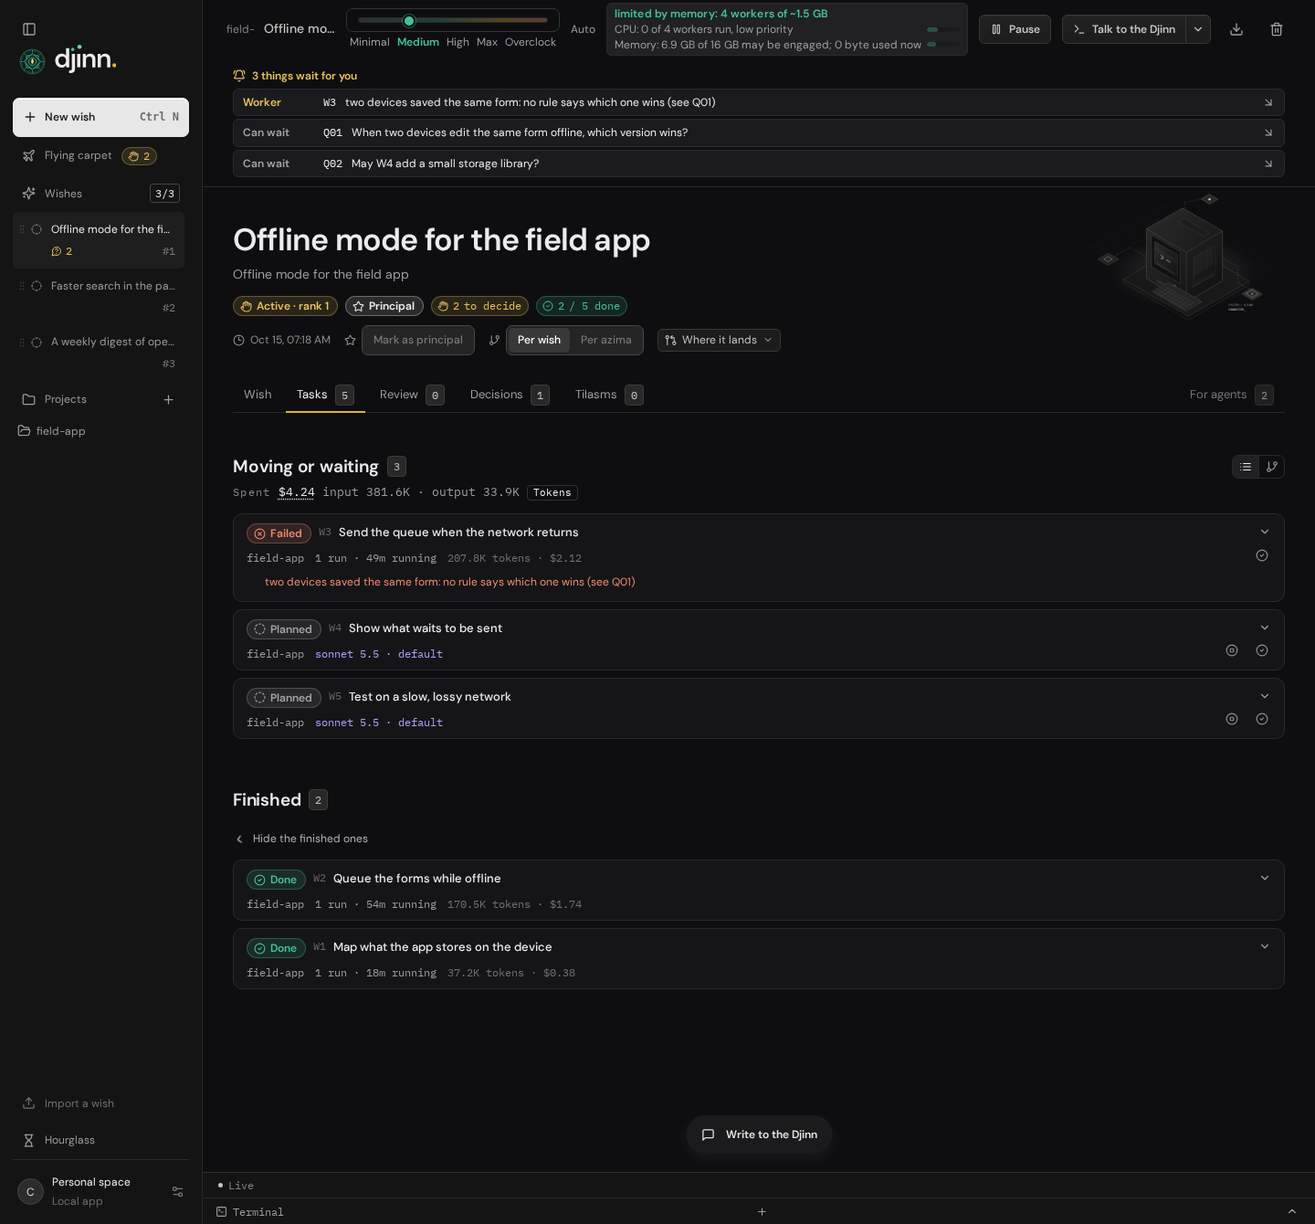
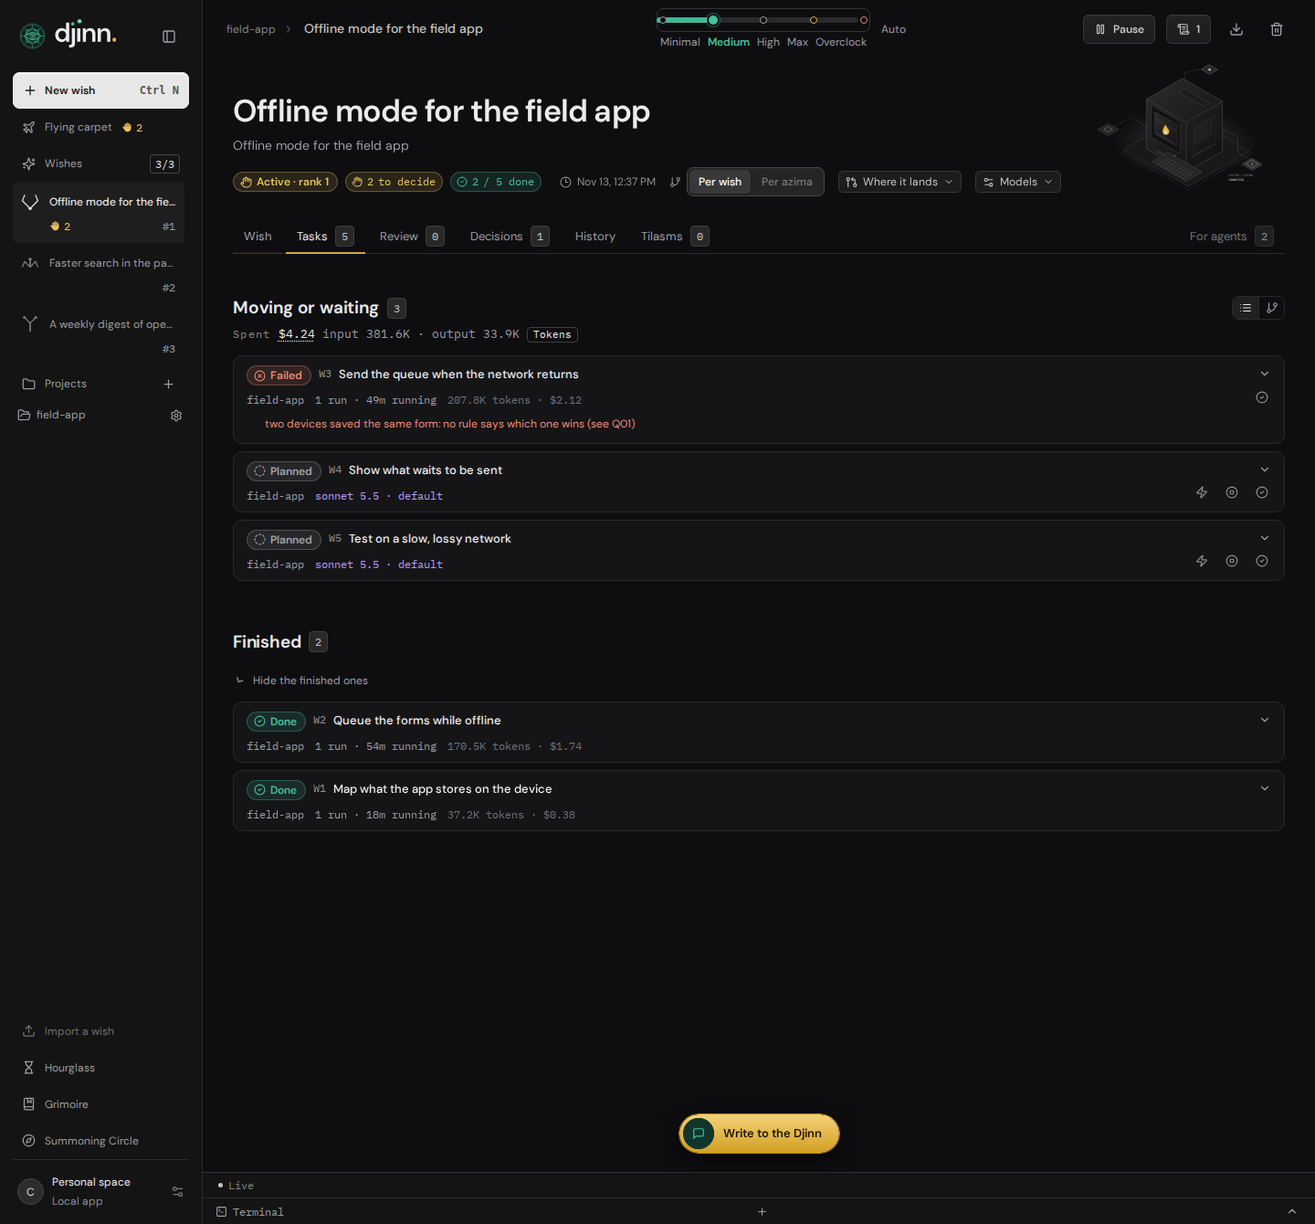
docs: the README for the beta, what Djinn does in v0.4.0, the road to v1 and its screenshots in the current look (W39)
The README announces the beta with no date, describes what v0.4.0 and main do (several Claude
accounts, gates and the memory brake, the Hourglass's Statistics, a draft pull request per azima,
the Djinn's tone by theme), keeps what is not verified yet under What beta means, and gives the road
to v1: the developer's four themes, then twelve proposals marked as such. The screenshots are taken
again with go tool task screenshots, in the window's current look.

diff --git a/README.md b/README.md
@@ -9,8 +9,9 @@
 
 _A wisp of smoke to work your will._
 
-> **Alpha.** Djinn is young and moves fast. It runs real work every day on its own repository, but expect rough
-> edges, and read [Status](#status) before you trust it with yours.
+> **Beta.** Djinn has left alpha: it runs real work every day, its own development first, and what it does is covered
+> by tests. It is not v1 yet: some paths are verified by tests only (see [What beta means](#what-beta-means)), the
+> command line and the API may still change, and the road to v1 is [below](#before-v1), with no date set.
 
 Djinn turns what you wish into work done by coding agents, on your own machine, with your own accounts. It is one
 command, `djinn`: a native window, a local server, and a command line the agents use. You make **wishes**; one
@@ -20,7 +21,7 @@ needs you comes as a **question**, with a recommendation and the exact command w
 
 <picture>
   <source media="(prefers-color-scheme: light)" srcset="docs/screenshots/readme/questions-light.png">
-  <img alt="A wish in Djinn: what waits for you, and a question with the Djinn's recommendation" src="docs/screenshots/readme/questions-dark.png">
+  <img alt="A wish in Djinn: a question with what is at stake, its options and the Djinn's recommendation, beside what runs" src="docs/screenshots/readme/questions-dark.png">
 </picture>
 
 ## What no djinn can grant
@@ -38,7 +39,8 @@ Like the genie of the lamp, Djinn has limits, and they are the project's first r
 - **Three wishes at a time.** One Djinn holds three active wishes at most, and as many set aside as you like.
 
 **Workers commit, and never push.** Each commits its work in its worktree; Djinn merges each one's work as it ends,
-checked, and pushes on a cadence: one CI run per push instead of one per worker.
+checked, and pushes on a cadence: one CI run per push instead of one per worker. It opens pull requests as drafts,
+and never marks them ready nor merges them: that stays yours.
 
 ## Install
 
@@ -55,13 +57,14 @@ irm https://github.com/Empowill/Djinn/releases/latest/download/install.ps1 | iex
 ```
 
 Then run `djinn up` (`djinn up --browser` prints a URL instead of opening a window). The latest release is
-[v0.3.0](https://github.com/Empowill/Djinn/releases/tag/v0.3.0).
+[v0.4.0](https://github.com/Empowill/Djinn/releases/tag/v0.4.0), and its [notes](docs/releases/v0.4.0.md) say what
+each part still needs.
 
 **Agents.** Djinn asks for no API key and stores none: it runs the agents you installed and signed in to, and your
 account pays for them. **Connections & preferences** shows which ones it finds and installs or signs them in from the
-window; the **Summoning Circle** picks the agent and model for the Djinn and for each kind of worker. By hand:
-`npm install -g @anthropic-ai/claude-code`, `npm install -g @openai/codex`, and for Antigravity see
-[`docs/providers.md`](docs/providers.md#antigravity).
+window; the **Summoning Circle** picks the agent and model for the Djinn and for each kind of worker, and ranks your
+sign-ins when you have several Claude accounts. By hand: `npm install -g @anthropic-ai/claude-code`,
+`npm install -g @openai/codex`, and for Antigravity see [`docs/providers.md`](docs/providers.md#antigravity).
 
 **macOS builds are not signed yet.** The `curl` install is not affected; a `Djinn.app` downloaded with a browser
 must be allowed once in *System Settings › Privacy & Security*, or with `xattr -dr com.apple.quarantine Djinn.app`.
@@ -80,73 +83,74 @@ djinn up
 
 ## What works today
 
-What is below is merged on the alpha branch and covered by tests (see [release notes](docs/releases/) for what ships
-in each tagged build):
+What is below is merged on main and covered by tests (the [release notes](docs/releases/) say what ships in each
+tagged build). Every concept has its page in the [Grimoire](#documentation).
 
 - **Wishes and azimas.** A wish is what you ask for, across one or more projects. The Djinn splits it into _azimas_
-  (goal-sized parts of the plan, coded `T01`, `T02`…) and tasks in a conflict-free parallel graph; each work task is
-  one worker in its own worktree. Azimas are ranked by priority (the scheduler and gates serve the first azimas first),
-  can wait as drafts, move between wishes, ask for your validation once their work is done, and show **Merged into
-  main** when their branch or pull request is in main. [Guide](docs/user-guide.md#a-wish) ·
-  [Azimas](docs/user-guide.md#azimas)
-- **One driven Djinn for every wish.** A single lead sees every active wish, so it spots duplicate or conflicting
-  work. It starts from `djinn brief`, a summary Djinn writes without a model, with its safe read, Git and `djinn`
-  commands pre-authorized and its notes built into the binary (`djinn lead notes`). By default, Djinn drives it without
-  a terminal, in a fresh Claude Code or Codex session per batch of events (`djinn lead journal`, `djinn lead sessions`):
-  a chip at the top names where it runs and moves it across agents, accounts or models, the side journal retries a
-  failed batch, and **the Djinn's eye** follows the batch and holds its replies on **Write to the Djinn** (Cmd/Ctrl+I).
-  Its voice follows the window's theme (solar in light mode, demon in dark). [Guide](docs/user-guide.md#the-djinn)
+  (goal-sized parts of the plan) and tasks in a conflict-free parallel graph; each work task is one worker in its own
+  worktree. Azimas are ranked by priority, can wait as drafts, move between wishes, and end **To validate**: their
+  card lists the proofs only a person, a machine or a real model can give, and **Validate** closes them.
+  [Guide](docs/user-guide.md#a-wish) · [Azimas](docs/user-guide.md#azimas)
+- **One Djinn for every wish.** A single lead sees every active wish, so it spots duplicate or conflicting work. By
+  default Djinn drives it without a terminal, in a fresh Claude Code or Codex session per batch of events, from
+  `djinn brief`, a summary Djinn writes without a model, and from notes built into the binary (`djinn lead notes`).
+  A chip names where it runs and moves it across agents, accounts or models; the **History** tab and
+  `djinn lead journal` show its batches; **Write to the Djinn** (Cmd/Ctrl+I) sends it your words. Its tone follows the
+  window's theme: a solar Djinn in light, a mocking demon in dark. [Guide](docs/user-guide.md#the-djinn) ·
+  [The Djinn](docs/site/pages/the-djinn.md)
 - **Questions and moves.** The Djinn says nothing for you in a terminal: every report, doubt, choice or "done" is a
-  question (`Q01`, `Q02`…) in its wish, ordered by urgency (**Blocking**, **Your move**, **To decide**, **Can wait**)
-  with options and a recommendation. **Rub the lamp** takes the recommended choice in one click or key; options that
-  declare their next worker (`Builds:`, `Iterates:`, `Investigates:`) launch it at once (**Build**, **Iterate**,
-  **Investigate**). **Enlighten me** sends an investigator worker (with web search and expanded read access) to dig
-  first and revise the question, keeping earlier revisions at the bottom; **Later** and **Sleep** set a question aside
-  until a task ends, a pull request merges, or a date passes. A move only you can make (push a tag, open or merge a
-  pull request, check on a Mac) puts every command to run in one code block at the top; a check or a CI result is never
-  asked of you. [Guide](docs/user-guide.md#questions)
-- **Tilasms.** A tilasm (`L01`, `L02`…) is a self-contained, sandboxed HTML page (`djinn://tilasm/<id>`) the Djinn or a
-  worker writes to show an analysis, a comparison, a diagram or an interactive mockup—kept and versioned (`v1`, `v2`…)
-  in Djinn's data folder, never in your repository. It opens full size over a question or in the **Tilasms** tab; you
-  select a passage or click an element to leave inline comments, then **Iterate** or **Launch** sends them in one batch
-  for the Djinn to answer and carry across versions. [Guide](docs/user-guide.md#the-tilasms-tab)
-- **Investigations, mockups and ifrits.** Beyond regular work tasks, the Djinn can start an **investigation** (a short,
-  time- and cost-bounded study) or a **mockup** (multi-round visual exploration), both running in their own worktree
-  without ever merging into your branch, preempting regular work and ending in a tilasm and a question. An **ifrit** is
-  an interactive worker that stays lit while you are active in the window or terminal (keeping its dev servers up via
-  `djinn serve` with clickable port links), goes out after an idle delay to free its slot and ports, relights on
-  demand, and merges its work through the project's checks when finished.
+  question in its wish, ordered by urgency (**Blocking**, **Your move**, **To decide**, **Can wait**), with options
+  and a recommendation selected from the start. The answer button names what starts: **Build**, **Iterate**,
+  **Investigate** launch the option's planned worker at once, **To the lead** hands the answer to the Djinn.
+  **Enlighten me** sends an investigator, with web search, to dig first and revise the question; **Later** and
+  **Sleep** set it aside until a task ends, a pull request merges or a date passes. A move only you can make puts every
+  command to run in one code block at the top; a check or a CI result is never asked of you. The window is driven from
+  the keyboard too. [Guide](docs/user-guide.md#questions) · [Question and move](docs/site/pages/question-and-move.md)
+- **Tilasms.** A tilasm is a self-contained, sandboxed HTML page (`djinn://tilasm/<id>`) the Djinn or a worker writes
+  to show an analysis, a comparison, a diagram or an interactive mockup, versioned in Djinn's data folder, never in
+  your repository. It opens full size over a question or in the **Tilasms** tab; you comment a passage or an element
+  inline, then **Iterate** or **Launch** sends the comments in one batch. A tilasm and the question linking it settle
+  each other. [Guide](docs/user-guide.md#the-tilasms-tab)
+- **Investigations, mockups and ifrits.** Besides work tasks, the Djinn can start an **investigation** (a short,
+  bounded study) or a **mockup** (rounds of visual exploration), which never merge and end in a tilasm and a question.
+  An **ifrit** is an interactive worker that stays lit while you are active, keeps its dev servers up with clickable
+  ports (`djinn serve`), goes out when you leave, and merges through the project's checks when finished.
   [Guide](docs/user-guide.md#an-ifrit-a-worker-that-stays-lit-while-you-are-there)
-- **Watchers, pull requests babysat, templates and the Inbox.** A **watcher** (`--provider watch`) is an agentless
-  command task—zero tokens, zero worker slots—that reads its command's output by paragraphs and wakes the Djinn on
-  change. Project skills (`SKILL.md`, summonable across projects) can declare **wish templates** for recurring
-  requests, **babysit** watchers that follow every pull or merge request a task opens (`gh pr create`,
-  `glab mr create`) until it merges, and **Inbox** sources (`djinn inbox plug`) that surface outside requests at the
-  top of the flying carpet. [Watchers & templates](docs/user-guide.md#watchers-and-wish-templates) ·
+- **Watchers, pull requests babysat, templates and the Inbox.** A **watcher** is an agentless command task, zero
+  tokens and zero worker slots, that wakes the Djinn when its command's output changes. Project skills can declare
+  **wish templates**, **babysit** every pull or merge request a task opens until it merges, and plug **Inbox** sources
+  that surface outside requests. [Watchers & templates](docs/user-guide.md#watchers-and-wish-templates) ·
   [Babysitting](docs/user-guide.md#babysitting-pull-requests) · [Inbox](docs/user-guide.md#the-inbox)
+- **Your work lands where you choose.** Per wish, one integration branch; per azima, one branch cut from main whose
+  draft pull request Djinn opens at its first push. Djinn merges each task's work, runs the project's checks, starts a
+  correction worker when they fail, and pushes on a standard cadence or on demand. A project describes its limits to
+  Djinn in a `djinn.yaml`. [Guide](docs/user-guide.md#team-settings-and-integration) ·
+  [Push strategy](docs/site/pages/push-strategy.md)
+- **Review.** Each task shows its whole diff; a comment on a line reaches its worker or becomes a correction task. The
+  **Review** tab lists the merged work to tick off, and the **Decisions** tab every decision taken, by whom, and what it
+  led to. [Guide](docs/user-guide.md#the-review-tab)
+- **Several Claude accounts.** Workers run on every Claude sign-in you add, the one whose week ends soonest first or in
+  the order you set; a worker that hits its account's limit moves to another with its session.
+  [Several Claude accounts](docs/site/pages/several-claude-accounts.md)
+- **Your machine stays yours.** A load slider, from **Minimal** to **Overclock** or **Auto**, sets how much of the
+  machine the workers take. Every command a Claude worker runs takes its turn through **gates**, heavy ones one at a
+  time, and a **memory brake** freezes, then interrupts, the worker whose memory grew outside them before the machine
+  runs out. [Gates](docs/user-guide.md#gates) · [Machine and load](docs/site/pages/machine-and-load.md)
 - **The flying carpet and the Hourglass.** **The flying carpet** (Ctrl+1 / Cmd+1) shows every active wish at once, the
-  inbox, and what waits for you first. **The Hourglass** (Ctrl+2 / Cmd+2) shows **Resources** (side-by-side CPU and
-  memory heatmaps over time, and workers grouped by wish), **Gates** (where command time goes), and **Disk** (whole-disk
-  usage and cleanup commands ordered by risk). [Flying carpet](docs/user-guide.md#the-flying-carpet) ·
-  [Hourglass](docs/user-guide.md#the-hourglass)
-- **Your work lands where you choose.** Per wish, one integration branch; per azima, one branch cut from main with
-  its own pull request (naming a branch after a remote one fetches it first, and answering yes to Djinn's pull request
-  question opens it as a draft). Djinn merges each task's work, runs the project's checks, starts a correction worker
-  when they fail, and pushes on a standard cadence or on demand. [Guide](docs/user-guide.md#team-settings-and-integration)
-- **Review.** Each task shows its whole diff; a comment on a line reaches its worker or becomes a correction task. A
-  **Review** tab lists the merged work to tick off. [Guide](docs/user-guide.md#the-review-tab)
-- **The Lamplighter.** A watchdog wakes a worker gone silent and continues it on its own session; each task has a
-  _seal_ (2 hours of work, 500 turns per run shown beside its lifetime turns, a spending cap, what it may edit and
-  run). Stopping Djinn never loses a worker: the next start resumes it. [Guide](docs/user-guide.md#when-djinn-stops-and-starts-again)
-- **Your machine stays yours.** An operating load slider, from **Minimal** to **Overclock** or **Auto**, sets how
-  much of the machine the workers take and shows the exact worker count for each notch; heavy commands share it
-  through gates.
-- **Nothing outlives Djinn.** Killing Djinn stops every worker, watcher and check it started; a survivor is
-  stopped at the next start.
-- **Logs and a debug dump.** `logs/djinn.log` in the data folder records each call, command, error and panic (with
-  its stack), never a prompt or a secret. When Djinn freezes, `djinn debug dump` writes where each part of
-  it waits, even when its server no longer answers. [Guide](docs/user-guide.md#when-djinn-is-stuck)
-- **Updates on a click.** A banner offers a newer Djinn with its release notes; nothing restarts without you.
+  inbox, and what waits for you first. **The Hourglass** (Ctrl+2 / Cmd+2) shows the **Machine** (CPU and memory over
+  time, each worker, where command time goes, the disk and what to clean) and the **Statistics** of the work, which
+  `djinn query` reads from a terminal too. [Flying carpet](docs/user-guide.md#the-flying-carpet) ·
+  [Hourglass](docs/user-guide.md#the-hourglass) · [Queries](docs/user-guide.md#queries)
+- **Stops lose nothing.** A watchdog wakes a worker gone silent and continues it on its own session; each task has a
+  _seal_ (time, turns, spending cap, what it may edit and run). Quitting Djinn stops every worker, watcher and check it
+  started, and the next start resumes them; after a crash, or with `djinn up --paused`, it resumes none until it knows
+  why. [Guide](docs/user-guide.md#when-djinn-stops-and-starts-again)
+- **Share a wish.** **Share** exports a wish to a `.djinn` file (its plan, questions, decisions, tilasms; never code
+  nor secrets) that **Import a wish** opens on another machine; `djinn wish sync` keeps a static page of it up to date.
+  [Guide](docs/user-guide.md#share-a-wish)
+- **Logs, a debug dump and updates.** `logs/djinn.log` in the data folder records each call, command, error and panic,
+  never a prompt or a secret; `djinn debug dump` says where each part waits when Djinn freezes. A banner offers a newer
+  Djinn with its release notes; nothing restarts without you. [Guide](docs/user-guide.md#when-djinn-is-stuck)
 
 ### Systems
 
@@ -156,35 +160,72 @@ in each tagged build):
 | macOS   | one universal binary, and `Djinn.app`          | Used on a Mac during the port; the native end-to-end test passes there. Go tests run in CI. The release archives are not checked by hand yet. |
 | Windows | amd64, arm64                                   | Go, interface and end-to-end tests run in CI, not yet as a required check. Not checked yet on a physical machine.                             |
 
-## Status
+## What beta means
 
-Djinn is **alpha**. It builds itself every day, with a Claude Code lead on Linux; much else is covered by tests but
-not yet by use. Not verified yet:
+Djinn builds itself every day, with a Claude Code lead on Linux; much else is covered by tests but not yet by use.
+Not verified yet:
 
-- **Codex** is tested against hand-written streams only: Djinn has not yet run a real Codex, as a lead or a worker.
-  Antigravity has run real tasks; it reports no sign-in status.
-- **macOS by hand** from a release: `Djinn.app` opened from the Finder, its notifications, the title bar. The builds
-  are not signed nor notarized.
+- **Codex** is tested against recorded streams, not yet run for real by this project as a lead or a worker; its
+  accounts are listed and ordered, but their quota is not read. Antigravity has run real tasks; it reports no sign-in
+  status.
+- **macOS by hand** from a release: `Djinn.app` opened from the Finder, its notifications, the title bar, a crash.
+  The builds are not signed nor notarized.
 - **Windows and arm64 Linux on real hardware**, including the Windows window and SmartScreen. On Windows, workers
-  cannot be paused and their CPU and memory are not measured yet.
-- **GitLab**: a merge request per azima, and one babysat until it merges, end to end.
+  cannot be paused and their memory is not measured yet.
+- **GitLab**: merge requests opened and babysat, tested against a fake forge, not yet on a live GitLab project.
 - **An update from inside the app** from one release to the next.
 
-The data folder is kept across versions, but the command line and the API may still change.
-
-## Beta roadmap
-
-Four workstreams lead from alpha to beta:
-
-1. **Distribution of work across trusted machines** ([`T28`](plan/b4286211-work-spread-over-trusted-machines.md)).
-2. **Collaboration in general on wishes, to wish together** ([`T29`](plan/e6e6605e-collaborate-on-a-wish.md)).
-3. **Review in general for wishes (QA, code review, decisions…).**
-4. **The project's art direction, and simpler reading to make everyday use pleasant.**
+The data folder is kept across versions; the command line and the API may still change before v1.
 
 ## Roadmap to v1
 
-Djinn is tracked here, with no other tool: one box per task, one file per task in
-[`plan/`](plan/README.md), with what to do and the questions still open.
+Djinn is tracked here, with no other tool: one file per task in [`plan/`](plan/README.md), with what to do and the
+questions still open.
+
+### Before v1
+
+The four themes that lead from beta to v1:
+
+1. **Delegating tasks between machines** ([`T28`](plan/b4286211-work-spread-over-trusted-machines.md)).
+2. **Peer-to-peer collaboration on artifacts (tilasms)** ([`T29`](plan/e6e6605e-collaborate-on-a-wish.md)).
+3. **Simpler QA and human validation (reworking the review).**
+4. **Tuning the Djinn's tone of voice.**
+
+### Proposals
+
+_Proposals, not decisions: each one needs a yes before any work._
+
+1. **Hand one task to another machine first.** T28 plans a whole mesh of trusted machines; sending one ready task, with
+   its session, to a machine you name would prove the trust and the transport early, and give you a second machine's
+   slots now.
+2. **Comments on a shared tilasm come back to the wish.** `djinn wish sync` writes a page one way only, and T29 leaves
+   open how a comment returns; tilasm comments already reach the Djinn in batches, so they are the natural first path
+   back, and a colleague's remark on a mockup reaches the wish without a copy and paste.
+3. **Validate an azima, not each task.** The Review tab ticks merged work task by task, while the proofs live on the
+   azima; one place per azima with its diff against main, its proofs and **Validate** would let you check a feature
+   once, as you think of it.
+4. **Try it before you tick it.** Validating a front change today means running it yourself; an ifrit lit on the
+   azima's branch, its ports one click away, would put the running change in front of you at validation time.
+5. **The Djinn's tone, chosen apart from the theme.** The tone follows the window's theme today; a setting of its own
+   (plain, solar, demon) in the Summoning Circle, with a sample question, would let you keep the dark theme with a
+   plain Djinn, on a shared screen or with a team.
+6. **A plain tone for what leaves Djinn.** A shared wish or page carries the questions in the tone they were written
+   in; writing what a teammate reads in the plain tone would keep the jokes between you and your Djinn.
+7. **Lessons a team teaches its Djinn.** Lead notes change only with a Djinn release; notes a project keeps beside its
+   `djinn.yaml` would let a team's lead learn its conventions without waiting for one.
+8. **Codex on equal terms with Claude.** Codex accounts are ordered but their quota is not read, and no real Codex run
+   is verified yet; reading its quota and running a real Codex lead and worker would make the agent choice a real one.
+9. **Windows workers that pause and are measured.** Pausing a worker and its memory figures are missing on Windows;
+   without them the load slider and the memory brake protect a Windows machine less.
+10. **A first start with something to see.** A new user meets an empty window and spends tokens before seeing a
+    question; the demonstration wish of the screenshots below, offered at the first start, would show a question, a
+    plan and a review before the first real wish.
+11. **A signed Mac and Windows install.** Unsigned builds stop a newcomer at Gatekeeper or SmartScreen; signing and
+    notarizing them would make a downloaded app open like any other.
+12. **A live GitLab check and an update tried release to release.** Both are tested against fakes only; one real run of
+    each before v1 would turn them into verified paths.
+
+### Done
 
 **Phase 1 · Native app**
 
@@ -223,7 +264,8 @@ _Screenshots of a demonstration wish, with fictional data. `go tool task screens
 [Release notes](docs/releases/)
 
 Every concept and command in one site: **Grimoire** in the window's side panel, served at `/docs/` while
-`djinn up` runs, or `go tool task docs`, then `bin/docs/index.html`.
+`djinn up` runs, or `go tool task docs`, then `bin/docs/index.html`. Its pages are in
+[`docs/site/pages/`](docs/site/pages/).
 
 ## Contributing
 
